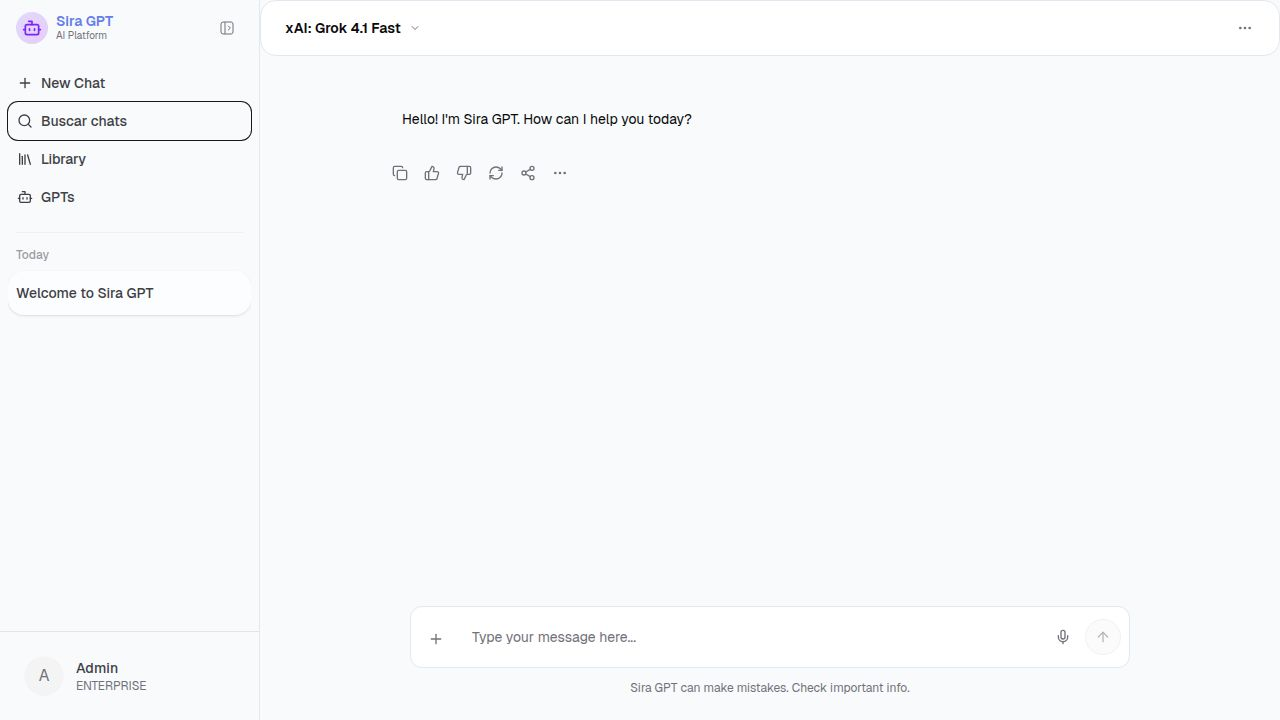
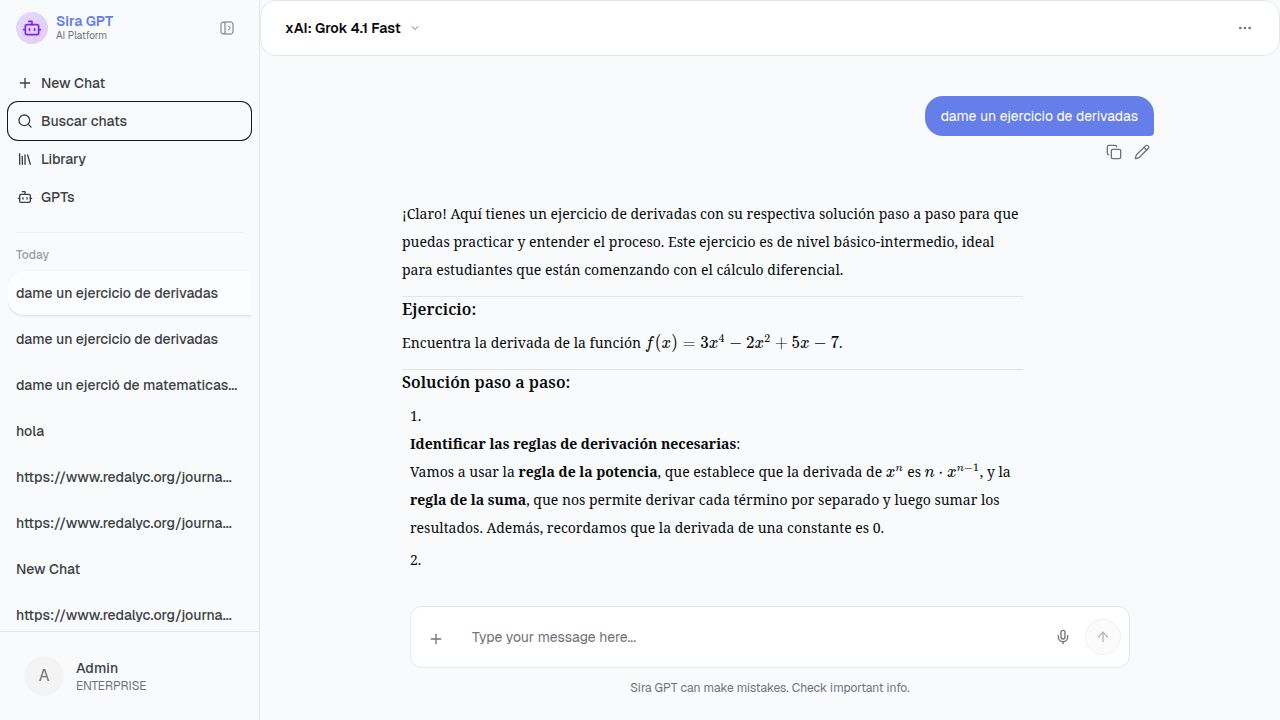
Update chat messages to use Times New Roman and double spacing
Modify the chat interface to apply 'Times New Roman' font and double line spacing to AI-generated messages, ensuring consistent styling for both final and streaming content.

Replit-Commit-Author: Agent
Replit-Commit-Session-Id: 5e246c44-b29b-499b-bcd8-39220059979d
Replit-Commit-Checkpoint-Type: full_checkpoint
Replit-Commit-Event-Id: fbbbce6f-4658-4ca6-a975-1f7983c21081
Replit-Commit-Screenshot-Url: https://storage.googleapis.com/screenshot-production-us-central1/c8de8182-93b8-40c0-96f1-23c96d638a68/5e246c44-b29b-499b-bcd8-39220059979d/0eavKiX
Replit-Helium-Checkpoint-Created: true

diff --git a/client/src/components/chat-interface.tsx b/client/src/components/chat-interface.tsx
@@ -717,7 +717,7 @@ export function ChatInterface({
                   )}
                   
                   {msg.content && !msg.isThinking && (
-                     <div className="px-4 py-3 text-sm leading-relaxed text-foreground liquid-message-ai-light">
+                     <div className="px-4 py-3 text-sm text-foreground liquid-message-ai-light" style={{ fontFamily: "'Times New Roman', Times, serif", lineHeight: "2" }}>
                        <ReactMarkdown
                          remarkPlugins={[remarkGfm, remarkMath]}
                          rehypePlugins={[rehypeKatex, rehypeHighlight]}
@@ -914,7 +914,7 @@ export function ChatInterface({
                 </div>
               )}
               {aiState === "responding" && streamingContent && (
-                <div className="px-4 py-3 text-sm leading-relaxed text-foreground">
+                <div className="px-4 py-3 text-sm text-foreground" style={{ fontFamily: "'Times New Roman', Times, serif", lineHeight: "2" }}>
                   <ReactMarkdown
                     remarkPlugins={[remarkGfm, remarkMath]}
                     rehypePlugins={[rehypeKatex, rehypeHighlight]}
